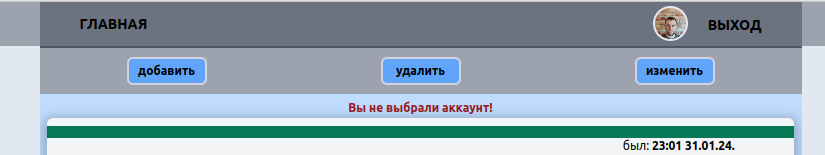
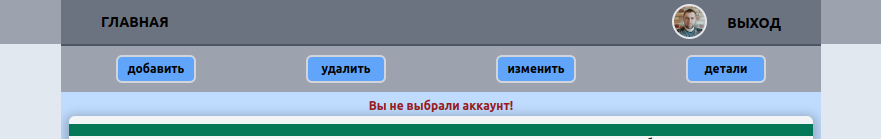
Изменил README с учетом внесенных изменений

diff --git a/frontend/src/components/ModalChangeNameComment.jsx b/frontend/src/components/ModalChangeNameComment.jsx
@@ -11,7 +11,6 @@ export default function ModalChangeNameComment({ request, files, saveChanges }) 
   const [message, setMessage] = useState(false);
   const cloudState = useSelector((state) => state.cloud);
   const dispatch = useDispatch();
-  console.log(files)
 
   // Обработчик нажатия кнопки "отмена"
   const handleCancel = () => {

diff --git a/frontend/README.md b/frontend/README.md
@@ -117,6 +117,16 @@
 Ссылку можно либо скопировать в ручную, выделив текст, либо нажатием иконки копирования в правом верхнем углу:  
 ![копировать ссыль](readme_res/url_modal_copy.png)  
 
+При нажатии кнопки "изменить" отобразится окно для изменения имени файла и добавлении/изменении комментария:  
+![изменить](./readme_res/change_file.png)  
+
+Нажимая кнопку:  
+- "изменить" мы подтверждаем изменения и отправляем их на сервер
+- "отмена" отменяем внесение изменений  
+
+Название файла проходит простую валидацию - поле не должно быть пустым. Если попытаемся сохранить пустое имя - отобразится предупреждение:  
+![имя файла не пустое](./readme_res/file_name_error.png)
+
 
 ### Страница сохранения файла
 При переходе любым пользователем по ссылке откроется страница сохранения файла. Если ссылка корректна - в центре окна появится иконка с названием файла и кнопка "скачать":
@@ -128,10 +138,12 @@
 Копировать ссылку на файл можно другим способом. По умолчанию отображение файлов установлено в виде "плитки". Нажав на кнопку в меню управления файлов можно изменить вид на "список":  
 ![вид](./readme_res/view.png)  
 
-При отображении файлов списком, помимо дополнительной информации о файле(размер и когда создан), можно увидеть иконку копирования ссылки:  
+При отображении файлов списком, помимо комментария к файлу(если он есть) и дополнительной информации о файле можно увидеть иконку копирования ссылки:  
 ![копировать ссыль из списка](./readme_res/list_copy.png)  
 
-Нажатие на иконку ЛКМ приводит к получению и копированию ссылки на файл без открытия модального окна.
+Нажатие на иконку ЛКМ приводит к получению и копированию ссылки на файл без открытия модального окна.  
+
+Для удобства способ отоборажения файлов сохраняется в **localforage**.
 
 
 ### Страница личных данных
@@ -186,10 +198,8 @@
 Нажатие кнопок "изменить" или "удалить" можно производить только после фокусировки на каком-либо аккаунте. В противном случае будет выводиться сообщение об ошибке (отображение 3 секунды):  
 ![ошибка фокуса](./readme_res/focus_error2.png)  
 
-Фокусировка производится **однарным** кликом ЛКМ по аккаунту. Снятие фокусировки происходит при клике в любое место окна браузера, кроме функциональных кнопок. Аккаунт в фокусе подсвечивается изменением цвета заднего фона:  
-![файл в фокусе](./readme_res/acc_on_focus.png)  
-
-При **двойном** клике по аккаунту происходит переход на [страницу карточки](#страница-карточки-аккаунта) данного аккаунта.  
+Фокусировка производится однарным кликом ЛКМ по аккаунту. Снятие фокусировки происходит при клике в любое место окна браузера, кроме функциональных кнопок. Аккаунт в фокусе подсвечивается изменением цвета заднего фона:  
+![файл в фокусе](./readme_res/acc_on_focus.png)   
 
 При нажатии кнопки "удалить" отобразится окно подтверждения удаления файла:  
 ![подтвердить удаление](./readme_res/del_acc_conferm.png)
@@ -207,7 +217,9 @@
 Отмеченный чекбокс - наделяет аккаунт правами администратора.  
 
 Кнопка "изменить" сохраняет измененные данные, "отмена" - отменяет действие.
-Оба варианта по окончанию действия закрывают окно и снимают фокус с аккаунта.
+Оба варианта по окончанию действия закрывают окно и снимают фокус с аккаунта.  
+
+При нажатии кнопки "детали" происходит переход на страницу карточки данного аккаунта. 
 
 ### Страница карточки аккаунта
 Страница открывается при двойном клике по аккаунту:  
@@ -221,7 +233,8 @@
 Нажатие кнопки "изменить" под данными открывает окно с теми же установками и функционалом, как и на главной странице.  
 
 Под списком файлов расположены кнопки управления файлами карточки аккаунта:  
-![управление файлами](./readme_res/card_file_buttons.png)  
+![управление файлами](./readme_res/card_file_buttons.png) 
+
 Функционал такой же, как у кнопок управления на странице пользователя.  
 
 В случае возникновения ошибки валидации файла аватара или ошибки фокусировки, отобразится сообщение об ошибке:  
